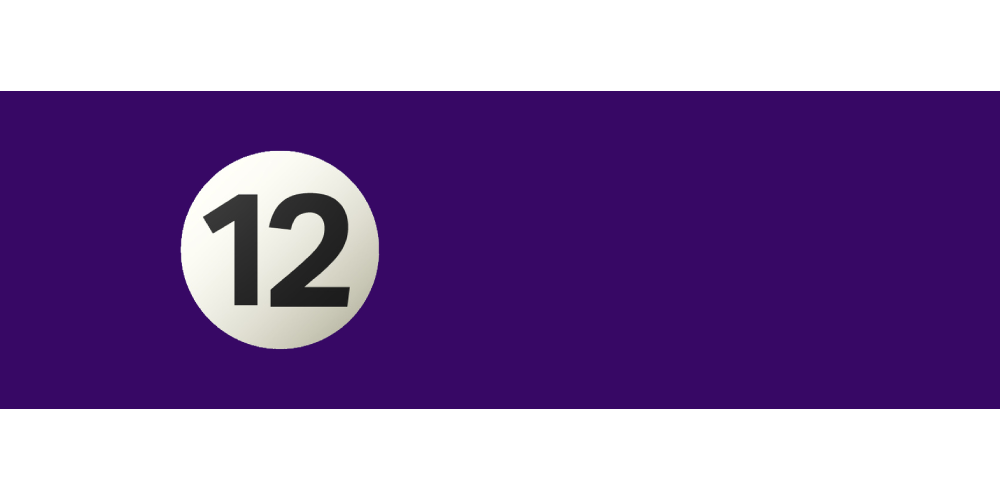
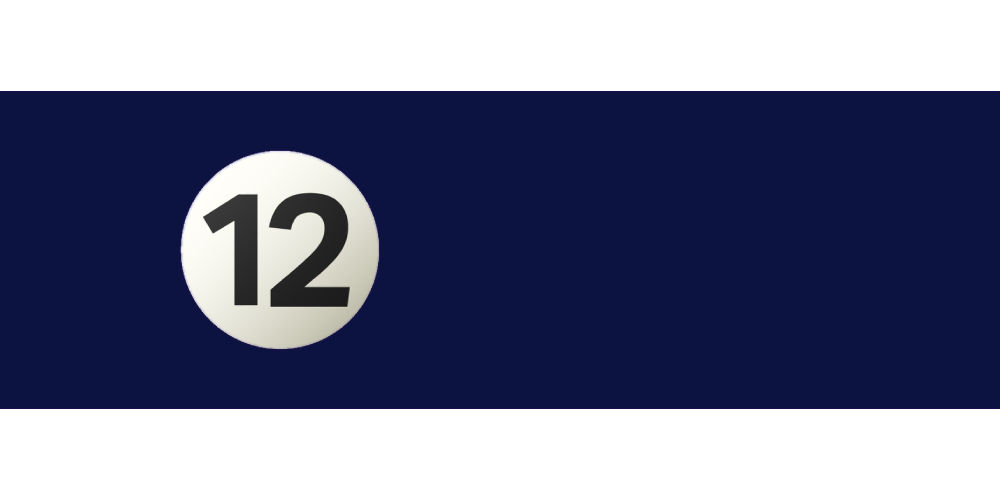
RulesScene added, balls 4,12 color fix

diff --git a/src/game/Controller.java b/src/game/Controller.java
@@ -21,6 +21,8 @@ public class Controller implements Initializable {
     //MENUSCENE COMPONENTS
     @FXML
     private Button playButton;
+    @FXML
+    private Button rulesButton;
 
     // GAMESCENE COMPONENTS
     @FXML
@@ -32,10 +34,14 @@ public class Controller implements Initializable {
     @FXML
     private Line guidelineToPocket;
     @FXML
-    private Button menuButton;
+    private Button menuButtonFromGame;
+
+    // RULESSCENE COMPONENTS
+    @FXML
+    private Button menuButtonFromRules;
 
     @FXML
-    public void handleButtonAction(ActionEvent event) throws Exception {
+    public void handlePlayButton(ActionEvent event) throws Exception {
         
         Stage stage;
         Parent root;
@@ -44,7 +50,28 @@ public class Controller implements Initializable {
             stage = (Stage) playButton.getScene().getWindow();
             root = FXMLLoader.load(getClass().getResource("GameScene.fxml"));
         } else {
-            stage = (Stage)  menuButton.getScene().getWindow();
+            stage = (Stage)  menuButtonFromGame.getScene().getWindow();
+            root = FXMLLoader.load(getClass().getResource("MenuScene.fxml"));
+        }
+
+        Scene scene = new Scene(root);
+        
+        stage.setScene(scene);
+        stage.show();
+
+    }
+
+    @FXML
+    public void handleRulesButton(ActionEvent event) throws Exception {
+        
+        Stage stage;
+        Parent root;
+
+        if(event.getSource()==rulesButton) {
+            stage = (Stage)  rulesButton.getScene().getWindow();
+            root = FXMLLoader.load(getClass().getResource("RulesScene.fxml"));
+        } else {
+            stage = (Stage)  menuButtonFromRules.getScene().getWindow();
             root = FXMLLoader.load(getClass().getResource("MenuScene.fxml"));
         }
 
@@ -57,7 +84,6 @@ public class Controller implements Initializable {
 
     @Override
     public void initialize(URL location, ResourceBundle resources) {
-        // TODO Auto-generated method stub
         
     }
 
